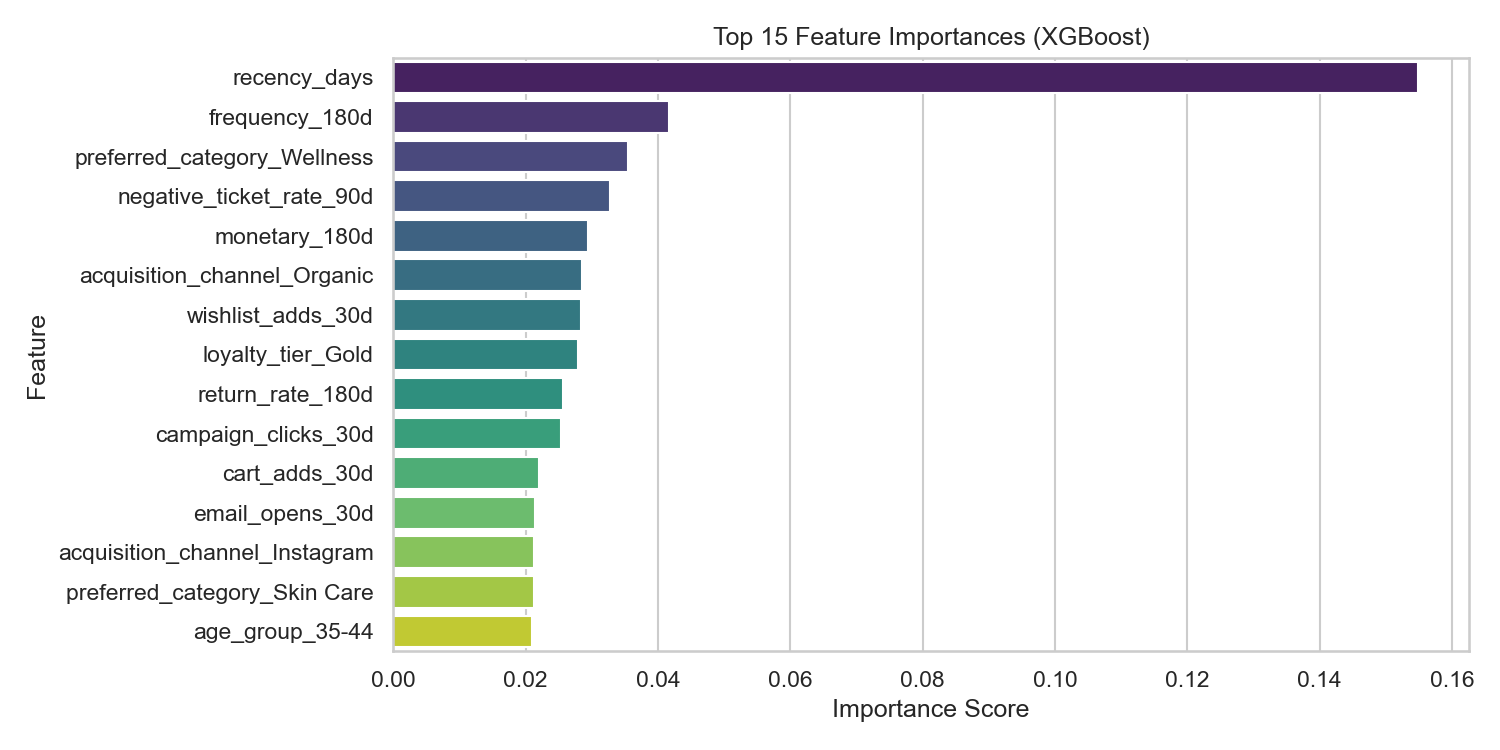
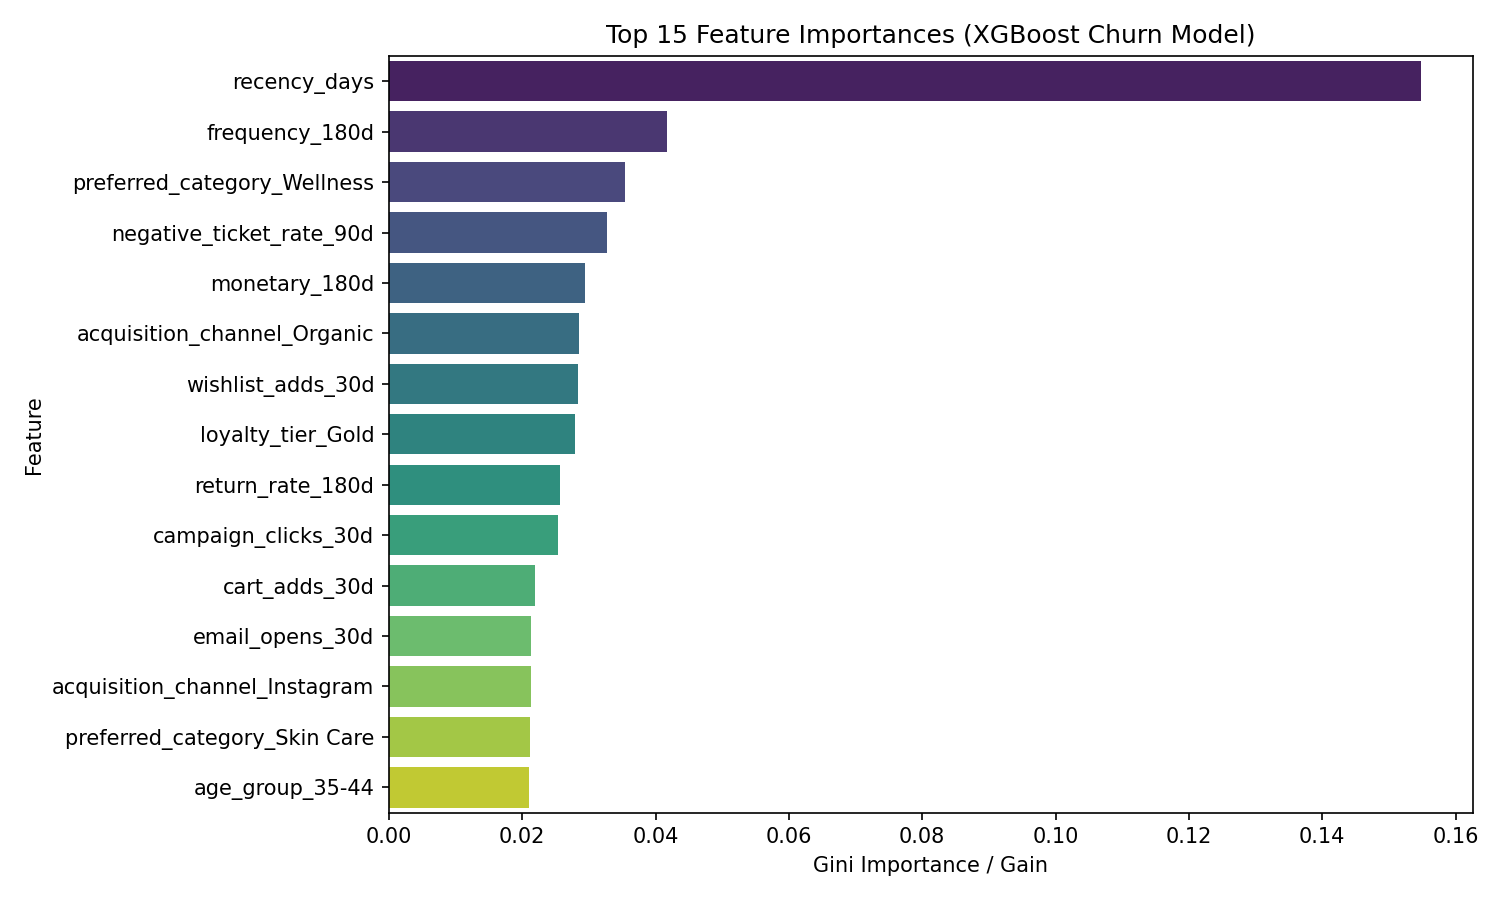
Convert hardcoded absolute paths to relative paths

Changed region(s): [[0.0307, 0.0307, 0.9813, 0.9813], [0.0, 0.4293, 0.0307, 0.552]]

diff --git a/train_model.py b/train_model.py
@@ -17,8 +17,8 @@ from xgboost import XGBClassifier
 from sklearn.metrics import accuracy_score, precision_score, recall_score, f1_score, roc_auc_score, confusion_matrix
 
 # Directories
-DATA_DIR = r"C:\Users\Lenovo\.gemini\antigravity\scratch\d2c_customer_churn\data"
-OUTPUT_DIR = r"C:\Users\Lenovo\.gemini\antigravity\scratch\d2c_customer_churn\part3"
+DATA_DIR = r"../data"
+OUTPUT_DIR = r"."
 os.makedirs(OUTPUT_DIR, exist_ok=True)
 
 # Load data